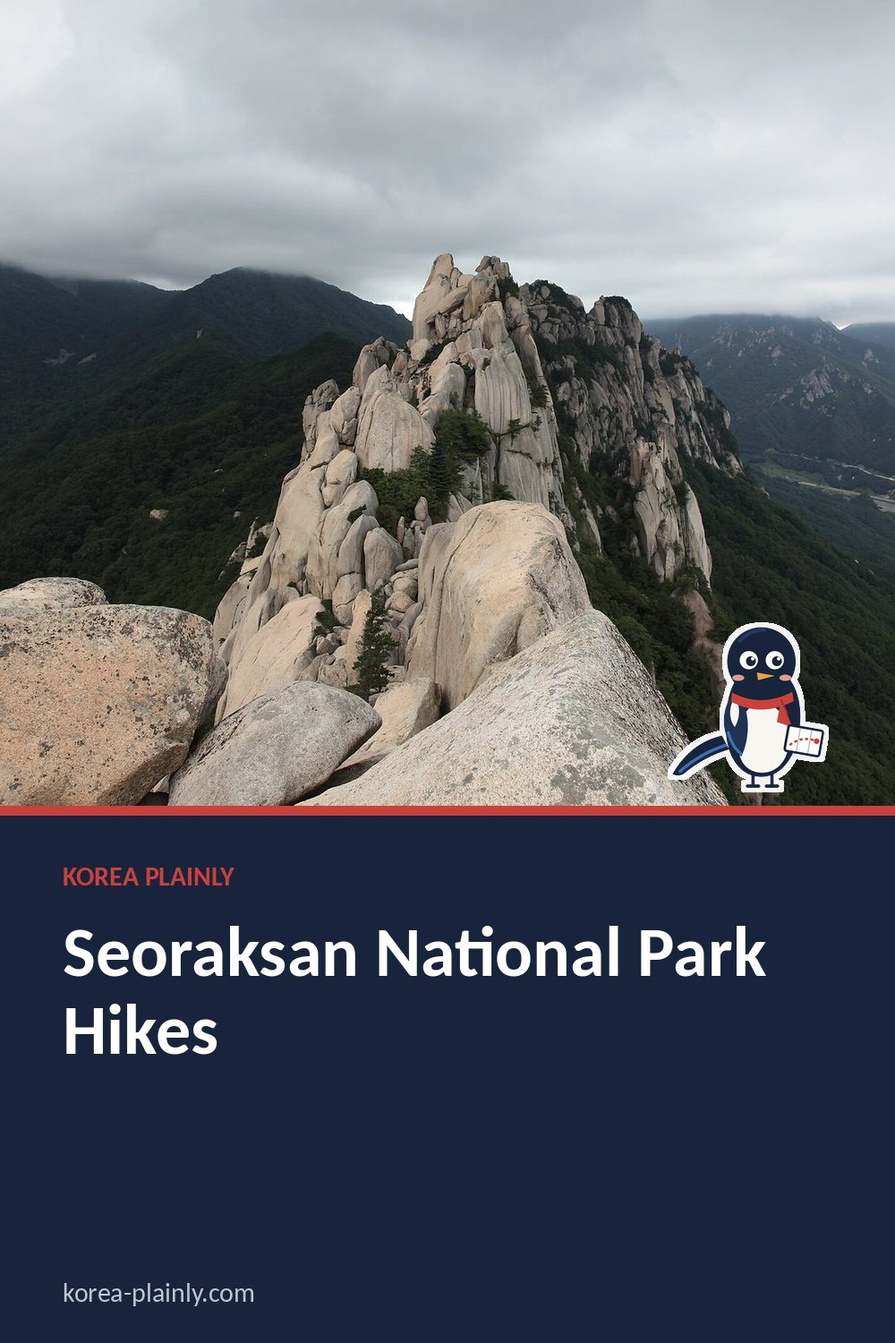
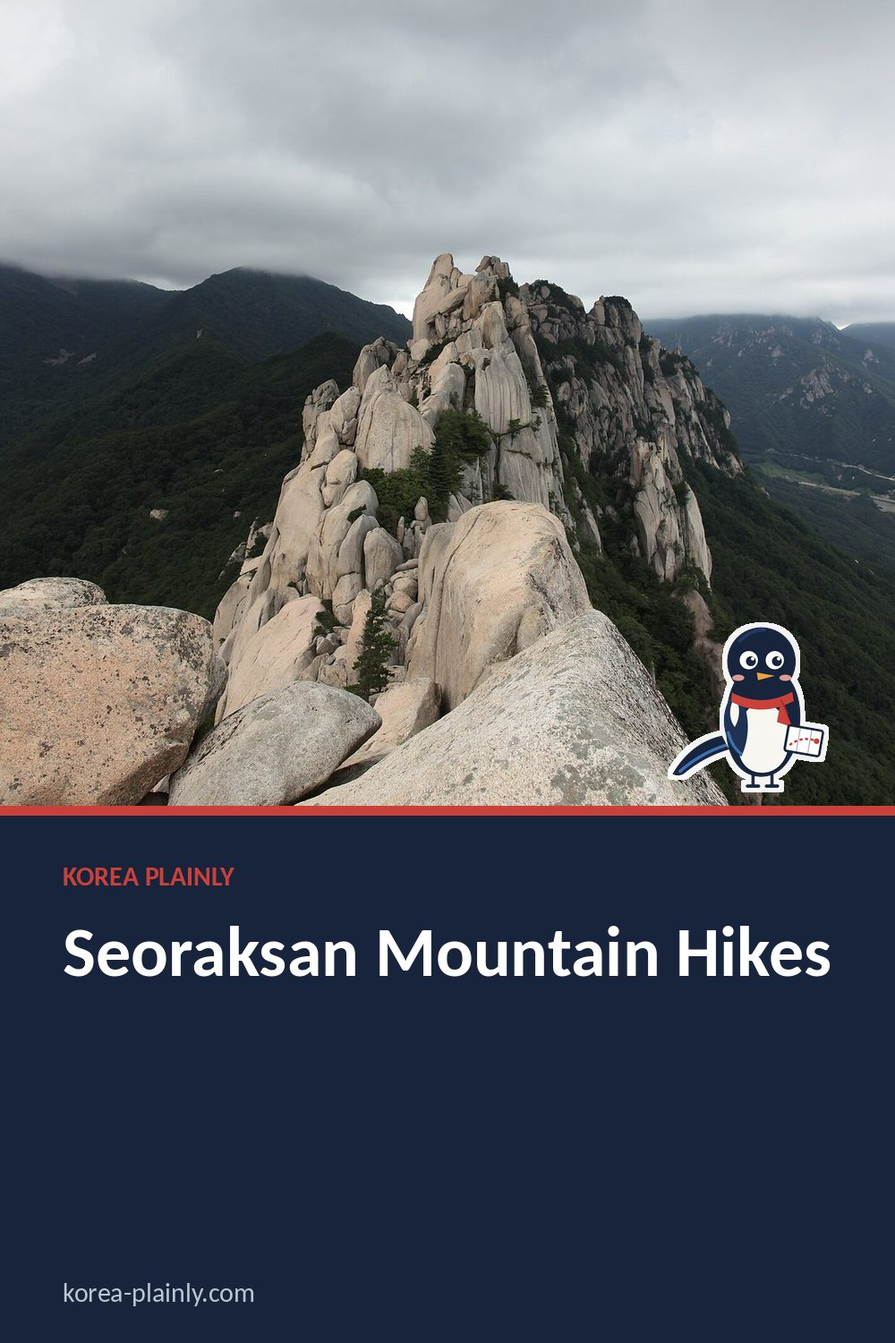
Seoraksan guide: retitle for 'seoraksan mountain' and rewrite with buses, Sogongwon, cable car, trail details and closures
Replaces generic, hedge-heavy text with Seoul-Sokcho buses and terminals, buses 7/7-1 to Sogongwon,
Sinheungsa and the trail fork, the Gwongeumseong cable car (approx. 2026 fare), Biseondae, Biryong
Falls, Ulsanbawi (Heundeulbawi, Gyejoam, the stairs), Daecheongbong from Osaek, 2026 wildfire
closures, aijen, and post-hike food. Three specific FAQs; new description and dek.
Owner's tip box and the Klook box are unchanged.

Claude-Session: https://claude.ai/code/session_01MMQnqEsa59cdZ12nVWushd

Changed region(s): [[0.434, 0.6747, 0.93, 0.736], [0.062, 0.736, 0.248, 0.7973]]

diff --git a/seoraksan-hikes.html b/seoraksan-hikes.html
@@ -11,11 +11,11 @@
 >
 
 <link rel="stylesheet" href="style.css?v=20261015-1">
-<title>Seoraksan National Park Hikes: Easy, Moderate and Full-Day Trails for First-Timers</title>
+<title>Seoraksan Mountain Hikes: Easy to Full-Day Trails from Sokcho</title>
 
 <meta
   name="description"
-  content="Seoraksan National Park near Sokcho: which trail to pick, from easy Biseondae and Biryong Falls walks to Ulsanbawi and Daecheongbong, plus winter closures."
+  content="Seoraksan Mountain from Sokcho: bus 7 to Sogongwon, Biseondae, Biryong Falls, the Ulsanbawi stairs, Daecheongbong, the cable car and closure dates."
 >
 <link
   rel="canonical"
@@ -29,12 +29,12 @@
 
 <meta
   property="og:title"
-  content="Seoraksan National Park Hikes: Easy, Moderate and Full-Day Trails for First-Timers"
+  content="Seoraksan Mountain Hikes: Easy to Full-Day Trails from Sokcho"
 >
 
 <meta
   property="og:description"
-  content="Seoraksan National Park near Sokcho: which trail to pick, from easy Biseondae and Biryong Falls walks to Ulsanbawi and Daecheongbong, plus winter closures."
+  content="Seoraksan Mountain from Sokcho: bus 7 to Sogongwon, Biseondae, Biryong Falls, the Ulsanbawi stairs, Daecheongbong, the cable car and closure dates."
 >
 
 <meta
@@ -59,12 +59,12 @@
 
 <meta
   name="twitter:title"
-  content="Seoraksan National Park Hikes: Easy, Moderate and Full-Day Trails for First-Timers"
+  content="Seoraksan Mountain Hikes: Easy to Full-Day Trails from Sokcho"
 >
 
 <meta
   name="twitter:description"
-  content="Seoraksan National Park near Sokcho: which trail to pick, from easy Biseondae and Biryong Falls walks to Ulsanbawi and Daecheongbong, plus winter closures."
+  content="Seoraksan Mountain from Sokcho: bus 7 to Sogongwon, Biseondae, Biryong Falls, the Ulsanbawi stairs, Daecheongbong, the cable car and closure dates."
 >
 
 <meta
@@ -247,9 +247,9 @@ footer {
 <link rel="stylesheet" href="article.css?v=6">
 <link rel="stylesheet" href="https://fonts.googleapis.com/css2?family=DM+Sans:wght@400;500;600;700&family=Playfair+Display:ital,wght@0,600;1,600&display=swap">
 <link rel="icon" href="/favicon.svg" type="image/svg+xml">
-<script type="application/ld+json" id="kp-faq-ld">{"@context": "https://schema.org", "@type": "FAQPage", "mainEntity": [{"@type": "Question", "name": "How should I choose between an easy, moderate, and full-day hike?", "acceptedAnswer": {"@type": "Answer", "text": "Choose based on your available time, fitness, and comfort with steep or uneven paths. An easy walk is a good choice for a relaxed visit or limited hiking experience. A moderate route takes more effort, while a full-day hike needs good stamina and careful planning. Check the route details before setting out."}}, {"@type": "Question", "name": "What should I bring for a Seoraksan hike?", "acceptedAnswer": {"@type": "Answer", "text": "Wear sturdy walking or hiking shoes, since trails may include rocks, steps, and uneven ground. Bring water, snacks, and clothing you can adjust if the weather changes. For a longer route, carry enough food and check the forecast and trail conditions before you go."}}, {"@type": "Question", "name": "Can I fit more than one hike into a day?", "acceptedAnswer": {"@type": "Answer", "text": "It may be possible to combine a short walk with another activity, but trying to complete several demanding routes can make the day rushed. Allow time for breaks and getting between trail areas. If you want a full-day hike, focus on one route and check for current trail closures or conditions before leaving."}}, {"@type": "Question", "name": "Can you hike Seoraksan in winter?", "acceptedAnswer": {"@type": "Answer", "text": "Yes. The low valley walks to Biseondae and Biryong Falls are popular in winter, and Ulsanbawi is possible with light crampons (aijen) for the icy stairs. Start early because the days are short, and check the Korea National Park Service website for closures before you go."}}, {"@type": "Question", "name": "Are Seoraksan trails closed in November?", "acceptedAnswer": {"@type": "Answer", "text": "Partly. In recent years the high ridge and summit trails, including the routes to Daecheongbong, have closed from mid-November to mid-December to prevent wildfires (15 November to 15 December in 2026). The valley walks near Sogongwon have usually stayed open. Check the park's notices before you go."}}]}</script>
-<script type="application/ld+json" id="kp-article-ld">{"@context": "https://schema.org", "@type": "Article", "headline": "Seoraksan National Park Hikes: Easy, Moderate and Full-Day Trails for First-Timers", "description": "Seoraksan National Park near Sokcho: which trail to pick, from easy Biseondae and Biryong Falls walks to Ulsanbawi and Daecheongbong, plus winter closures.", "image": ["https://korea-plainly.com/photo-seoraksan-hikes.jpg"], "datePublished": "2026-10-30", "dateModified": "2026-11-21", "author": {"@type": "Person", "name": "Jungsuk Kim", "url": "https://korea-plainly.com/about.html#author"}, "publisher": {"@type": "Organization", "name": "Korea Plainly", "url": "https://korea-plainly.com/"}, "mainEntityOfPage": "https://korea-plainly.com/seoraksan-hikes.html"}</script>
-<script type="application/ld+json" id="kp-breadcrumb-ld">{"@context": "https://schema.org", "@type": "BreadcrumbList", "itemListElement": [{"@type": "ListItem", "position": 1, "name": "Home", "item": "https://korea-plainly.com/"}, {"@type": "ListItem", "position": 2, "name": "Guides", "item": "https://korea-plainly.com/guides.html"}, {"@type": "ListItem", "position": 3, "name": "Travel Basics", "item": "https://korea-plainly.com/guides.html?category=travel"}, {"@type": "ListItem", "position": 4, "name": "Seoraksan National Park Hikes: Easy, Moderate and Full-Day Trails for First-Timers", "item": "https://korea-plainly.com/seoraksan-hikes.html"}]}</script>
+<script type="application/ld+json" id="kp-faq-ld">{"@context": "https://schema.org", "@type": "FAQPage", "mainEntity": [{"@type": "Question", "name": "Can I visit Seoraksan as a day trip from Seoul?", "acceptedAnswer": {"@type": "Answer", "text": "Yes, but it is a long day: about five hours on buses there and back, plus the local bus to Sogongwon. That leaves time for the cable car and Biseondae, not much more. For Ulsanbawi, spend a night in Sokcho."}}, {"@type": "Question", "name": "Which Seoraksan trail has the best views?", "acceptedAnswer": {"@type": "Answer", "text": "For the effort, Ulsanbawi: the top looks out over the Seorak peaks on one side and Sokcho and the sea on the other. If you cannot manage the stairs, the cable car to Gwongeumseong gives a similar view in a few minutes."}}, {"@type": "Question", "name": "Are Seoraksan trails closed in November?", "acceptedAnswer": {"@type": "Answer", "text": "Partly. The high ridge and summit trails, including every route to Daecheongbong, close from mid-November to mid-December to prevent wildfires (15 November to 15 December in 2026). Biseondae, Biryong Falls and Ulsanbawi have usually stayed open."}}]}</script>
+<script type="application/ld+json" id="kp-article-ld">{"@context": "https://schema.org", "@type": "Article", "headline": "Seoraksan Mountain Hikes: Easy to Full-Day Trails from Sokcho", "description": "Seoraksan Mountain from Sokcho: bus 7 to Sogongwon, Biseondae, Biryong Falls, the Ulsanbawi stairs, Daecheongbong, the cable car and closure dates.", "image": ["https://korea-plainly.com/photo-seoraksan-hikes.jpg"], "datePublished": "2026-10-30", "dateModified": "2026-11-28", "author": {"@type": "Person", "name": "Jungsuk Kim", "url": "https://korea-plainly.com/about.html#author"}, "publisher": {"@type": "Organization", "name": "Korea Plainly", "url": "https://korea-plainly.com/"}, "mainEntityOfPage": "https://korea-plainly.com/seoraksan-hikes.html"}</script>
+<script type="application/ld+json" id="kp-breadcrumb-ld">{"@context": "https://schema.org", "@type": "BreadcrumbList", "itemListElement": [{"@type": "ListItem", "position": 1, "name": "Home", "item": "https://korea-plainly.com/"}, {"@type": "ListItem", "position": 2, "name": "Guides", "item": "https://korea-plainly.com/guides.html"}, {"@type": "ListItem", "position": 3, "name": "Travel Basics", "item": "https://korea-plainly.com/guides.html?category=travel"}, {"@type": "ListItem", "position": 4, "name": "Seoraksan Mountain Hikes: Easy to Full-Day Trails from Sokcho", "item": "https://korea-plainly.com/seoraksan-hikes.html"}]}</script>
 <meta property="article:published_time" content="2026-10-30">
 </head>
 
@@ -280,12 +280,12 @@ TRAVEL · KOREA GUIDE
 </div>
 
 <h1>
-Seoraksan National Park Hikes: Easy, Moderate and Full-Day Trails for First-Timers
+Seoraksan Mountain Hikes: Easy to Full-Day Trails from Sokcho
 </h1>
-<p class="kp-date" data-kp="date">By <a href="about.html#author">Jungsuk Kim</a>, Korea Plainly · Published <time datetime="2026-10-30">30 October 2026</time> · Updated <time datetime="2026-11-21">21 November 2026</time></p>
+<p class="kp-date" data-kp="date">By <a href="about.html#author">Jungsuk Kim</a>, Korea Plainly · Published <time datetime="2026-10-30">30 October 2026</time> · Updated <time datetime="2026-11-28">28 November 2026</time></p>
 
 <p class="dek">
-Seoraksan National Park near Sokcho: which trail to pick, from easy Biseondae and Biryong Falls walks to Ulsanbawi and Daecheongbong, plus winter closures.
+Seoraksan Mountain from Sokcho: bus 7 to Sogongwon, Biseondae, Biryong Falls, the Ulsanbawi stairs, Daecheongbong, the cable car and closure dates.
 </p>
 
 <img
@@ -297,53 +297,42 @@ Seoraksan National Park near Sokcho: which trail to pick, from easy Biseondae an
 
 <article>
 
-<p>Seoraksan National Park is a good place to see Korea’s mountain scenery, but its trails range from gentle valley walks to steep, all-day climbs. For a first visit, choose a route by the time you have and how comfortable you are on stairs and uneven stone paths. The most convenient starting point for the park’s popular eastern trails is Seorak-dong, east of central Sokcho.</p>
+<p>Seoraksan (설악산) is the mountain most Koreans picture when they think of granite peaks and autumn colour, and it is easy to reach from Sokcho on the east coast. Almost every first visit starts at one place, Sogongwon, where you choose between a flat valley walk, a waterfall, a steel staircase up Ulsanbawi or, with a full day, the summit.</p>
 
-<nav class="kp-toc" data-kp="toc" aria-label="On this page"><p>On this page</p><ol><li><a href="#getting-to-the-trails">Getting to the trails</a></li><li><a href="#easy-biseondae-valley">Easy: Biseondae Valley</a></li><li><a href="#easy-to-moderate-biryong-falls">Easy to moderate: Biryong Falls</a></li><li><a href="#moderate-to-strenuous-ulsanbawi-rock">Moderate to strenuous: Ulsanbawi Rock</a></li><li><a href="#full-day-daecheongbong-from-osaek">Full day: Daecheongbong from Osaek</a></li><li><a href="#seoraksan-in-winter-and-trail-closures">Seoraksan in winter and trail closures</a></li><li><a href="#what-to-bring-and-how-to-choose">What to bring and how to choose</a></li><li><a href="#frequently-asked-questions">Frequently Asked Questions</a></li></ol></nav>
+<nav class="kp-toc" data-kp="toc" aria-label="On this page"><p>On this page</p><ol><li><a href="#getting-to-the-trails">Getting to the trails</a></li><li><a href="#the-cable-car-to-gwongeumseong">The cable car to Gwongeumseong</a></li><li><a href="#easy-biseondae-valley">Easy: Biseondae Valley</a></li><li><a href="#easy-to-moderate-biryong-falls">Easy to moderate: Biryong Falls</a></li><li><a href="#moderate-to-strenuous-ulsanbawi-rock">Moderate to strenuous: Ulsanbawi Rock</a></li><li><a href="#full-day-daecheongbong-from-osaek">Full day: Daecheongbong from Osaek</a></li><li><a href="#seoraksan-in-winter-and-trail-closures">Seasons and trail closures</a></li><li><a href="#after-the-hike">After the hike: food in Seorak-dong and Sokcho</a></li><li><a href="#faq">FAQ</a></li></ol></nav>
 <h2 id="getting-to-the-trails">Getting to the trails</h2>
-<p>From Seoul, take an intercity or express bus to Sokcho. There is no subway in Sokcho. From Sokcho Express Bus Terminal, city buses commonly listed as 7 and 7-1 run toward Seorak-dong and the park entrance. Use Naver Map or KakaoMap for local directions; check current bus routes and trail notices on the Korea National Park Service website before setting out.</p>
+<p>From Seoul, express buses to Sokcho leave from Seoul Express Bus Terminal (Gangnam) and Dong Seoul Terminal and take about two and a half hours on a clear road. Sokcho has two terminals: the express terminal (속초고속버스터미널) near the beach and the intercity terminal (속초시외버스터미널) in the centre. City buses 7 and 7-1 run from both to the end of the line at Seorak-dong; sit tight until the last stop, roughly 30 to 40 minutes.</p>
 <aside class="kp-own-tip" style="margin:24px 0;padding:16px 18px;border-left:4px solid #c9413a;background:#fffdf8;border-radius:10px"><p style="margin:0 0 6px;font-size:13px;letter-spacing:.08em;font-weight:700;color:#c9413a">FROM MY OWN TRIPS</p><p style="margin:0">Seoraksan is spectacular in any of the four seasons. There is no wrong time to go.</p><p style="margin:8px 0 0;font-size:14px;color:#62635f">&mdash; Jungsuk Kim, Korea Plainly</p></aside>
-<p>At the entrance, look for signs for <strong>소공원 (Sogongwon)</strong>, the main trail hub for Biseondae, Biryong Falls and Ulsanbawi. Bring water and a snack from Sokcho, since choices are more limited once you are on the trail. The Korean word <strong>입산통제</strong> means hiking access is restricted; closures can happen because of weather or trail conditions.</p>
+<p>The bus drops you at the <strong>소공원 (Sogongwon)</strong> area. There is no entry fee (the temple charge was dropped in 2023), and within ten minutes you reach Sinheungsa Temple and its large seated bronze Buddha. Every trail below except Daecheongbong from Osaek starts here, and the path forks just past the temple: left for Ulsanbawi, straight on for Biseondae, and back towards the car park for Biryong Falls.</p>
+<p>On signs, <strong>입산통제</strong> means the trail is closed. Buy water and gimbap in Sokcho or at the shops by the bus stop; there is nowhere to buy food on the trails themselves.</p>
 
 <aside class="kp-aff" data-kp-aff="klook"><p class="kp-aff-k">BOOK AHEAD</p><p class="kp-aff-t">Seoraksan as a day tour from Seoul</p><p>If you are based in Seoul and short on time, a coach tour saves the bus transfers. It leaves only a few hours in the park: enough for the cable car or a short valley walk, not for Ulsanbawi.</p><p class="kp-aff-l"><a class="kp-aff-btn" href="https://www.klook.com/activity/7802-nami-island-mt-seorak-day-tour-gangwon-do/?aid=143923" target="_blank" rel="sponsored nofollow noopener">Seoraksan day tour on Klook &rarr;</a></p><p class="kp-aff-d">Affiliate links: if you book through one, Korea Plainly may earn a small commission at no extra cost to you.</p></aside>
+<h2 id="the-cable-car-to-gwongeumseong">The cable car to Gwongeumseong</h2>
+<p>If you have little time or do not want to hike, the Seoraksan cable car (설악케이블카) runs from Sogongwon to the rocky top of Gwongeumseong. From the upper station a ten-minute scramble over bare granite leads to a view of the peaks and the sea. A return ticket was about ₩16,000 for adults in late 2026, sold on the day at the station. Autumn weekend queues can pass an hour, and it stops in strong wind, so go early.</p>
+
 <h2 id="easy-biseondae-valley">Easy: Biseondae Valley</h2>
-<p><strong>Best for:</strong> a first mountain walk, families with older children, or visitors who want dramatic scenery without a summit climb.</p>
-<p>From Sogongwon, follow the valley path toward Biseondae Rock. It is roughly 3 kilometres each way, with a broad, well-used route alongside streams and cliffs. The walk is not completely flat: expect stretches of stone paving and steps, but you do not need to tackle a long, exposed climb. Allow about two to three hours for the return walk, including photo stops.</p>
-<p>Biseondae is a striking rock formation beside the water, and a natural place to turn around. The trail continues toward Geumganggul Cave, but that section gets much steeper. If you are new to hiking or wearing casual shoes, enjoy the valley and finish at Biseondae rather than treating the cave as an automatic add-on.</p>
-<p><strong>Local tip:</strong> Start earlier in the day if you want a quieter walk and softer light on the rock walls. Afterward, take a bus back toward Sokcho and try <strong>makguksu</strong>, chilled buckwheat noodles often served with a tangy dressing. At Sokcho Jungang Market, look for <strong>ojingeo sundae</strong>, a local-style squid stuffed with filling.</p>
+<p><strong>About 3 km each way, 2 to 3 hours return.</strong> The gentlest walk follows a stream through a wide valley to Biseondae (비선대), where the water runs over pale slabs beneath a wall of cliffs. Trainers are fine. Biseondae is the natural turning point: beyond it the trail climbs steeply to Geumganggul Cave and the high ridges, which is a different kind of hike. This is the best pick for families, an afternoon arrival or a cold winter day.</p>
 
 <h2 id="easy-to-moderate-biryong-falls">Easy to moderate: Biryong Falls</h2>
-<p><strong>Best for:</strong> visitors who want a waterfall destination and are happy to climb some stairs.</p>
-<p>The route to Biryong Falls also starts near Sogongwon. It passes Yukdam Falls and follows a forested valley, with bridges and stair sections along the way. Plan on around 5 kilometres round trip and roughly two to three hours, depending on your pace and stops. The distance is manageable for many beginners, but the steps make it more tiring than a flat stroll. Wear shoes with a firm grip, especially after rain.</p>
-<p>Follow signs for <strong>비룡폭포 (Biryong Falls)</strong> and turn back at the signed destination unless you have checked the route beyond it. Do not climb onto wet rocks for a photograph; the water and stone can be slippery. This is a satisfying choice when you have half a day but do not want the long staircase of Ulsanbawi.</p>
+<p><strong>About 2.5 km each way, 2 to 3 hours return.</strong> The route to Biryong Falls (비룡폭포, "Flying Dragon Falls") follows a forested gorge past Yukdam Falls, with suspension bridges and a fair number of stairs near the end. The falls drop into a deep green pool; they are best after summer rain. Wear shoes with grip, because the stone steps stay wet, and do not climb onto the rocks by the pool.</p>
 
 <h2 id="moderate-to-strenuous-ulsanbawi-rock">Moderate to strenuous: Ulsanbawi Rock</h2>
-<p><strong>Best for:</strong> fit walkers who want a famous viewpoint and are comfortable with a steep finish.</p>
-<p>Ulsanbawi is about 3.8 kilometres one way from the Sogongwon area. The first part takes you through forest, but the final climb is the challenge: a long flight of metal stairs leads toward the rocky summit and broad views over the surrounding peaks. Allow about four to six hours for the return trip, including breaks. The stair climb can feel demanding even for people who exercise regularly.</p>
-<p>Take your time on the way up and leave enough daylight for the descent. The viewpoint is exposed, so wind and cold can feel stronger there than in Sokcho. If your knees dislike steep stairs, Biseondae is a better choice. For Ulsanbawi, bring water, a light layer and shoes that grip; sandals and smooth-soled fashion trainers are poor options.</p>
+<p><strong>About 3.8 km each way, 4 to 5 hours return.</strong> Ulsanbawi (울산바위), the granite ridge you see from all over Sokcho, is the classic Seoraksan half-day. The first hour is easy forest path past Heundeulbawi, the "rocking boulder" that visitors try to push, and the small Gyejoam hermitage built into a cave. Then come the stairs: hundreds of steel steps bolted to the rock, steep enough that you will use the handrail. The top is exposed and windy. Start by late morning, and remember the descent is harder on the knees.</p>
 
 <h2 id="full-day-daecheongbong-from-osaek">Full day: Daecheongbong from Osaek</h2>
-<p><strong>Best for:</strong> experienced hikers with a full day, an early start and good fitness.</p>
-<p>Daecheongbong is Seoraksan’s highest peak. One direct approach begins at Osaek, in Yangyang County, rather than at the Seorak-dong entrance. The ascent is about 5 kilometres, but it is steep and sustained; the short distance should not be mistaken for an easy walk. Allow roughly eight to ten hours for a return hike, with breaks and a careful descent. The forest climb offers limited views in places, so the summit is not a quick scenic stroll.</p>
-<p>Plan transport before you go. Osaek is not the same trailhead as Sogongwon, and returning to Sokcho may require a bus connection or a taxi depending on the day and your timing. A one-way traverse from Hangyeryeong over Daecheongbong to Osaek is longer and needs more transport planning. Do not attempt the summit late in the day or in poor weather, and turn back if your pace is slower than planned.</p>
+<p><strong>About 5 km each way, 8 to 10 hours return.</strong> Daecheongbong (대청봉, 1,708 m) is the highest point of Seoraksan and the third-highest peak in South Korea. The shortest approach starts at Osaek (오색) on the south side, in Yangyang County, not at Sogongwon. It is steep almost all the way, mostly stone steps through forest, and Korean hikers often start before dawn. Buses to Osaek run from Yangyang and Sokcho, but not often, so check the times on Naver Map or KakaoMap the evening before and know how you will get back.</p>
 
-<h2 id="seoraksan-in-winter-and-trail-closures">Seoraksan in winter and trail closures</h2>
-<p>Seoraksan is open all year, but parts of it close twice a year to prevent wildfires. In recent years the high ridge and summit trails have closed from mid-November to mid-December (for autumn 2026, from 15 November to 15 December, with a few sections from 1 November), and again from early March to mid-May. The routes to Daecheongbong from Osaek and Baekdam are usually among them, and the trails beyond Biseondae towards the high ridges close too. The low valley walks from Sogongwon, such as Biseondae and Biryong Falls, have usually stayed open, but check the park's notices before you go.</p>
+<h2 id="seoraksan-in-winter-and-trail-closures">Seasons and trail closures</h2>
+<p>Mid to late October is peak season, when the colour reaches Sogongwon and the road into Seorak-dong jams at weekends. July and August rain can close trails for a day or two.</p>
 <ul>
-<li><strong>Ice and snow:</strong> from late autumn the trails can be icy, especially the stairs and rock steps on the way to Ulsanbawi. Light crampons (<strong>아이젠</strong>, aijen) that slip over your shoes are recommended, and many Korean hikers carry them all winter.</li>
-<li><strong>Short days:</strong> it gets dark early in winter, so start in the morning and turn back in good time, even on the easy walks.</li>
-<li><strong>Cable car and wind:</strong> the Seoraksan cable car may stop running in strong wind, so don't build your day around it.</li>
-<li><strong>Current status:</strong> check the Korea National Park Service website (english.knps.or.kr) for trail closures, and Naver Map or KakaoMap for buses back to Sokcho.</li>
+<li><strong>Wildfire closures:</strong> the high ridge and summit trails close twice a year, in recent years from mid-November to mid-December (15 November to 15 December in 2026) and from early March to mid-May. The routes to Daecheongbong are always among them. The valley walks to Biseondae and Biryong Falls, and Ulsanbawi, have usually stayed open.</li>
+<li><strong>Ice:</strong> from late November the stairs to Ulsanbawi ice over. Slip-on crampons (<strong>아이젠</strong>, aijen) are sold cheaply at the outdoor shops in Seorak-dong, and most Korean hikers carry them all winter.</li>
+<li><strong>Short days:</strong> in December it is dark by about 5:30 pm.</li>
 </ul>
-<p>For the rest of a winter trip, see our <a href="korea-winter-travel-guide.html">Korea winter travel guide</a>, and for the town at the foot of the mountain, our <a href="sokcho.html">Sokcho guide</a>.</p>
+<p>Trail status is posted on the Korea National Park Service website (english.knps.or.kr); check it before you go, and see our <a href="korea-winter-travel-guide.html">Korea winter travel guide</a> for clothing.</p>
 
-<h2 id="what-to-bring-and-how-to-choose">What to bring and how to choose</h2>
-<ul>
-<li><strong>For Biseondae:</strong> water, a snack and comfortable walking shoes with grip.</li>
-<li><strong>For Biryong Falls or Ulsanbawi:</strong> grippy hiking shoes, a light rain layer and enough water for several hours.</li>
-<li><strong>For Daecheongbong:</strong> proper hiking footwear, food, warm layers, a charged phone and an early start. Check the forecast and trail status before leaving.</li>
-</ul>
-<p>In short, choose Biseondae for a scenic introduction, Biryong Falls for a waterfall walk, Ulsanbawi for a strenuous half-day challenge, and Daecheongbong only if you are prepared for a full mountain day. Keep to marked paths, carry out your rubbish and leave time to get back to your bus stop before dark.</p>
+<h2 id="after-the-hike">After the hike: food in Seorak-dong and Sokcho</h2>
+<p>The restaurants by the bus stop serve hikers' food: <strong>sanchae bibimbap</strong> (rice with mountain greens), <strong>pajeon</strong> (savoury pancake) and <strong>dotorimuk</strong> (acorn jelly), usually with a bowl of <strong>dongdongju</strong>, a milky rice wine. Back in town, Sokcho Jungang Market (속초관광수산시장) is the place for <strong>dakgangjeong</strong> (sweet crispy fried chicken, sold in boxes) and <strong>ojingeo sundae</strong> (stuffed squid). Our <a href="sokcho.html">Sokcho guide</a> covers where to stay, and <a href="korea-7-day-itinerary.html">7 days in Korea</a> shows how to fit the east coast into a first trip.</p>
 
 <div class="tip">
 
@@ -351,23 +340,19 @@ Seoraksan National Park near Sokcho: which trail to pick, from easy Biseondae an
 Bottom line:
 </strong>
 
-Pick Biseondae or Biryong Falls for a relaxed first visit, Ulsanbawi if you are fit and like stairs, and Daecheongbong only with a full day and an open trail. Check the park's closure notices before you go.
+Take bus 7 or 7-1 to Sogongwon, walk to Biseondae or Biryong Falls for an easy first visit, climb Ulsanbawi if you like a challenge, and save Daecheongbong for a full, early day when the trail is open.
 
 </div>
 
 
 <section class="faq">
-<h2 id="frequently-asked-questions">Frequently Asked Questions</h2>
-<h3>How should I choose between an easy, moderate, and full-day hike?</h3>
-<p>Choose based on your available time, fitness, and comfort with steep or uneven paths. An easy walk is a good choice for a relaxed visit or limited hiking experience. A moderate route takes more effort, while a full-day hike needs good stamina and careful planning. Check the route details before setting out.</p>
-<h3>What should I bring for a Seoraksan hike?</h3>
-<p>Wear sturdy walking or hiking shoes, since trails may include rocks, steps, and uneven ground. Bring water, snacks, and clothing you can adjust if the weather changes. For a longer route, carry enough food and check the forecast and trail conditions before you go.</p>
-<h3>Can I fit more than one hike into a day?</h3>
-<p>It may be possible to combine a short walk with another activity, but trying to complete several demanding routes can make the day rushed. Allow time for breaks and getting between trail areas. If you want a full-day hike, focus on one route and check for current trail closures or conditions before leaving.</p>
-<h3>Can you hike Seoraksan in winter?</h3>
-<p>Yes. The low valley walks to Biseondae and Biryong Falls are popular in winter, and Ulsanbawi is possible with light crampons (aijen) for the icy stairs. Start early because the days are short, and check the Korea National Park Service website for closures before you go.</p>
+<h2 id="faq">FAQ</h2>
+<h3>Can I visit Seoraksan as a day trip from Seoul?</h3>
+<p>Yes, but it is a long day: about five hours on buses there and back, plus the local bus to Sogongwon. That leaves time for the cable car and Biseondae, not much more. For Ulsanbawi, spend a night in Sokcho.</p>
+<h3>Which Seoraksan trail has the best views?</h3>
+<p>For the effort, Ulsanbawi: the top looks out over the Seorak peaks on one side and Sokcho and the sea on the other. If you cannot manage the stairs, the cable car to Gwongeumseong gives a similar view in a few minutes.</p>
 <h3>Are Seoraksan trails closed in November?</h3>
-<p>Partly. In recent years the high ridge and summit trails, including the routes to Daecheongbong, have closed from mid-November to mid-December to prevent wildfires (15 November to 15 December in 2026). The valley walks near Sogongwon have usually stayed open. Check the park's notices before you go.</p>
+<p>Partly. The high ridge and summit trails, including every route to Daecheongbong, close from mid-November to mid-December to prevent wildfires (15 November to 15 December in 2026). Biseondae, Biryong Falls and Ulsanbawi have usually stayed open.</p>
 </section>
 
 <!-- kp-kkachi -->

diff --git a/guides.html b/guides.html
@@ -2671,11 +2671,11 @@ TRAVEL · NEW
 </small>
 
 <h2>
-Seoraksan National Park Hikes: Easy, Moderate and Full-Day Trails for First-Timers
+Seoraksan Mountain Hikes: Easy to Full-Day Trails from Sokcho
 </h2>
 
 <p>
-Seoraksan National Park near Sokcho: which trail to pick, from easy Biseondae and Biryong Falls walks to Ulsanbawi and Daecheongbong, plus winter closures.
+Seoraksan Mountain from Sokcho: bus 7 to Sogongwon, Biseondae, Biryong Falls, the Ulsanbawi stairs, Daecheongbong, the cable car and closure dates.
 </p>
 
 <span class="guide-arrow">
